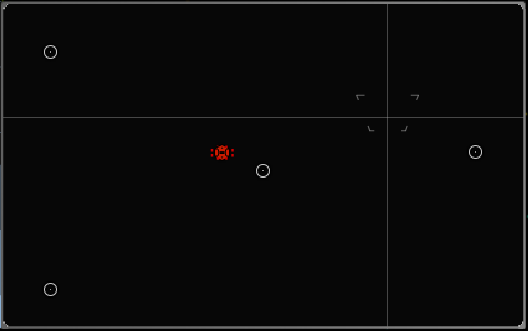
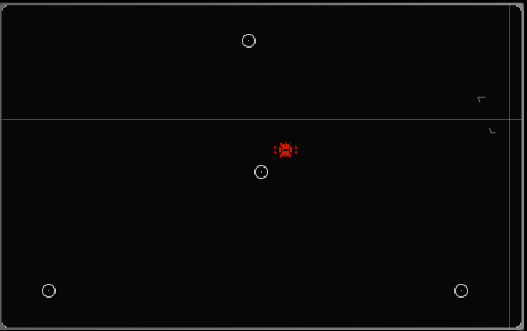
Some changes added

diff --git a/test.py b/test.py
@@ -31,14 +31,16 @@ fullMap = getImagePositionAndSize('Full_Map.PNG')
 
 def moveRandonOnMap():
     randomX = randint(fullMap.left + 3, fullMap.left + fullMap.width - 3)
-    randomY = randint(fullMap.top + 3, fullMap.top + fullMap.height - 3)
+    randomY = randint(fullMap.top + 3, fullMap.top + 140)
+    #randomY = randint(fullMap.top + 3, fullMap.top + fullMap.height - 3)
     pyautogui.moveTo(randomX, randomY, 1)
-    pyautogui.click(randomX, randomY)
+    pyautogui.click(randomX, randomY, 1)
     time.sleep(10)
 
 
 def attackNpc(npcPos):
-    pyautogui.click(npcPos.x + 60, npcPos.y - 60)
+    pyautogui.click(npcPos.x, npcPos.y)
+    pyautogui.click(npcPos.x + 70, npcPos.y - 70)
     time.sleep(0.5)
     pyautogui.press('ctrl')
 
@@ -58,8 +60,12 @@ def confPetToCollectBoxes():
         getImageAndClick('Button_Play_PET.PNG')
         getImageAndClick('Pet_Menu.PNG')
         if (getImagePosition('Auto_recolector.png') == None):
-            revivirOnPortal()
-        getImageAndClick('Auto_recolector.png')
+            if (getImagePosition('Revivir_Lugar.PNG') != None):
+                reviveOnPlace()
+            elif (getImagePosition('Nueva_Conexion.PNG') != None):
+                newConnection()
+        else:
+            getImageAndClick('Auto_recolector.png')
 
 
 def repairPet():
@@ -72,21 +78,44 @@ def revivirOnPortal():
     getImageAndClick('Boton_Revivir.PNG')
 
 
+def reviveOnPlace():
+    getImageAndClick('Revivir_Lugar.PNG')
+    getImageAndClick('Boton_Revivir.PNG')
+    time.sleep(2)
+
+
 def newConnection():
     getImageAndClick('Nueva_Conexion.PNG')
     time.sleep(5)
 
 
-while(True):
-    if (getImagePositionWithHighAccuracy('Nueva_Conexion.PNG') != None):
-        newConnection()
-        confPetToCollectBoxes()
-    elif (getImagePosition('Revivir_Portal.PNG') != None):
-        revivirOnPortal()
-    elif (getImagePositionWithHighAccuracy('Repair_PET.PNG') != None):
-        repairPet()
-        confPetToCollectBoxes()
-    elif (getImagePositionWithHighAccuracy('Button_Play_PET.PNG')):
-        confPetToCollectBoxes()
+def collectBonusBoxes():
+    while (True):
+        if (getImagePositionWithHighAccuracy('Nueva_Conexion.PNG') != None):
+            newConnection()
+            confPetToCollectBoxes()
+        elif (getImagePosition('Revivir_Portal.PNG') != None):
+            reviveOnPlace()
+        elif (getImagePositionWithHighAccuracy('Repair_PET.PNG') != None):
+            repairPet()
+            confPetToCollectBoxes()
+        elif (getImagePositionWithHighAccuracy('Button_Play_PET.PNG')):
+            confPetToCollectBoxes()
 
-    moveRandonOnMap()
+        moveRandonOnMap()
+
+
+def killNpcs():
+    while (True):
+        npcPosition = getImagePositionOnRegion(
+            'NPC.PNG', (156, 267, 1319, 634))
+        if (npcPosition != None):
+            attackNpc(npcPosition)
+            while (True):
+                if (getImagePosition('NPC_Selected.PNG') == None):
+                    break
+        else:
+            moveRandonOnMap()
+
+
+collectBonusBoxes()
